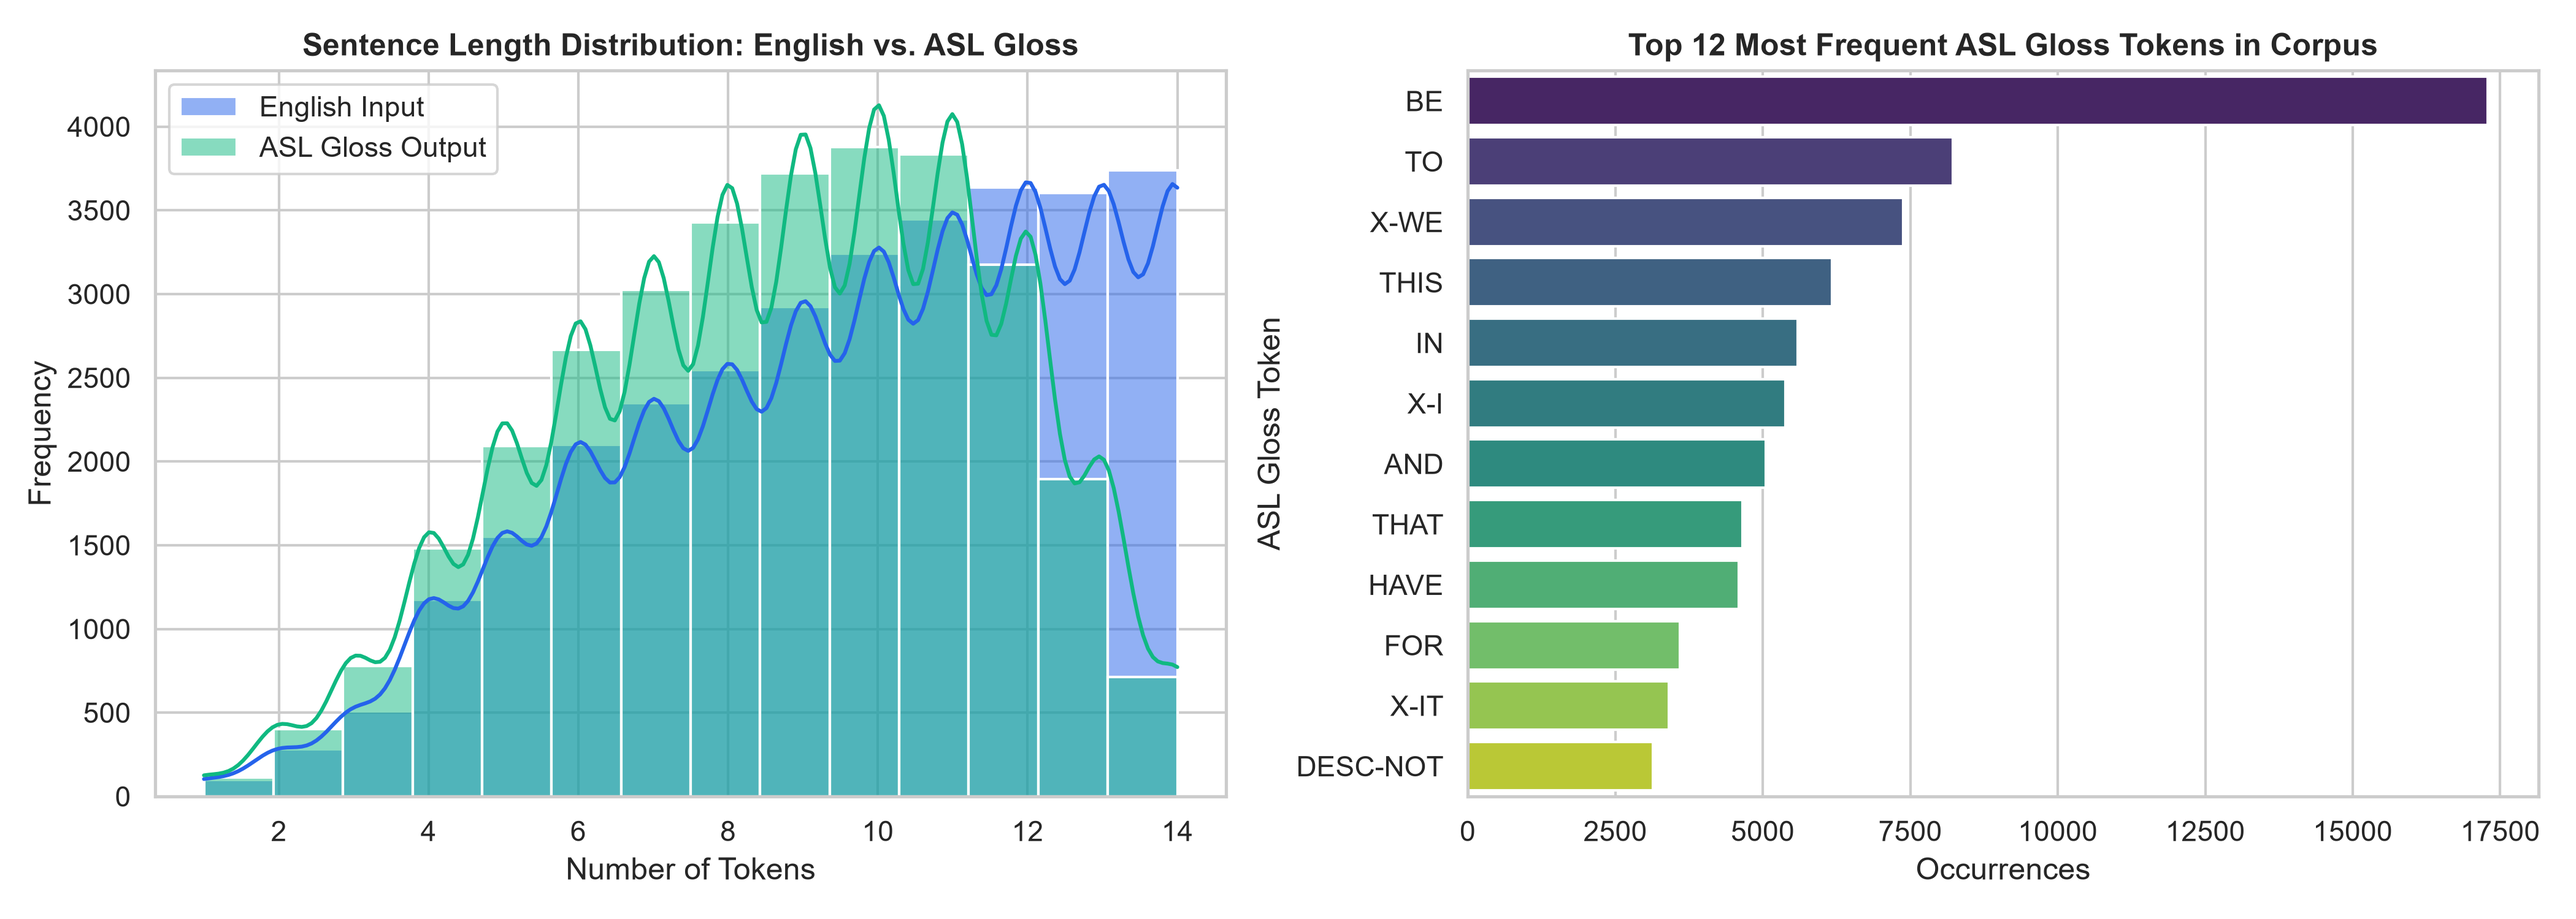
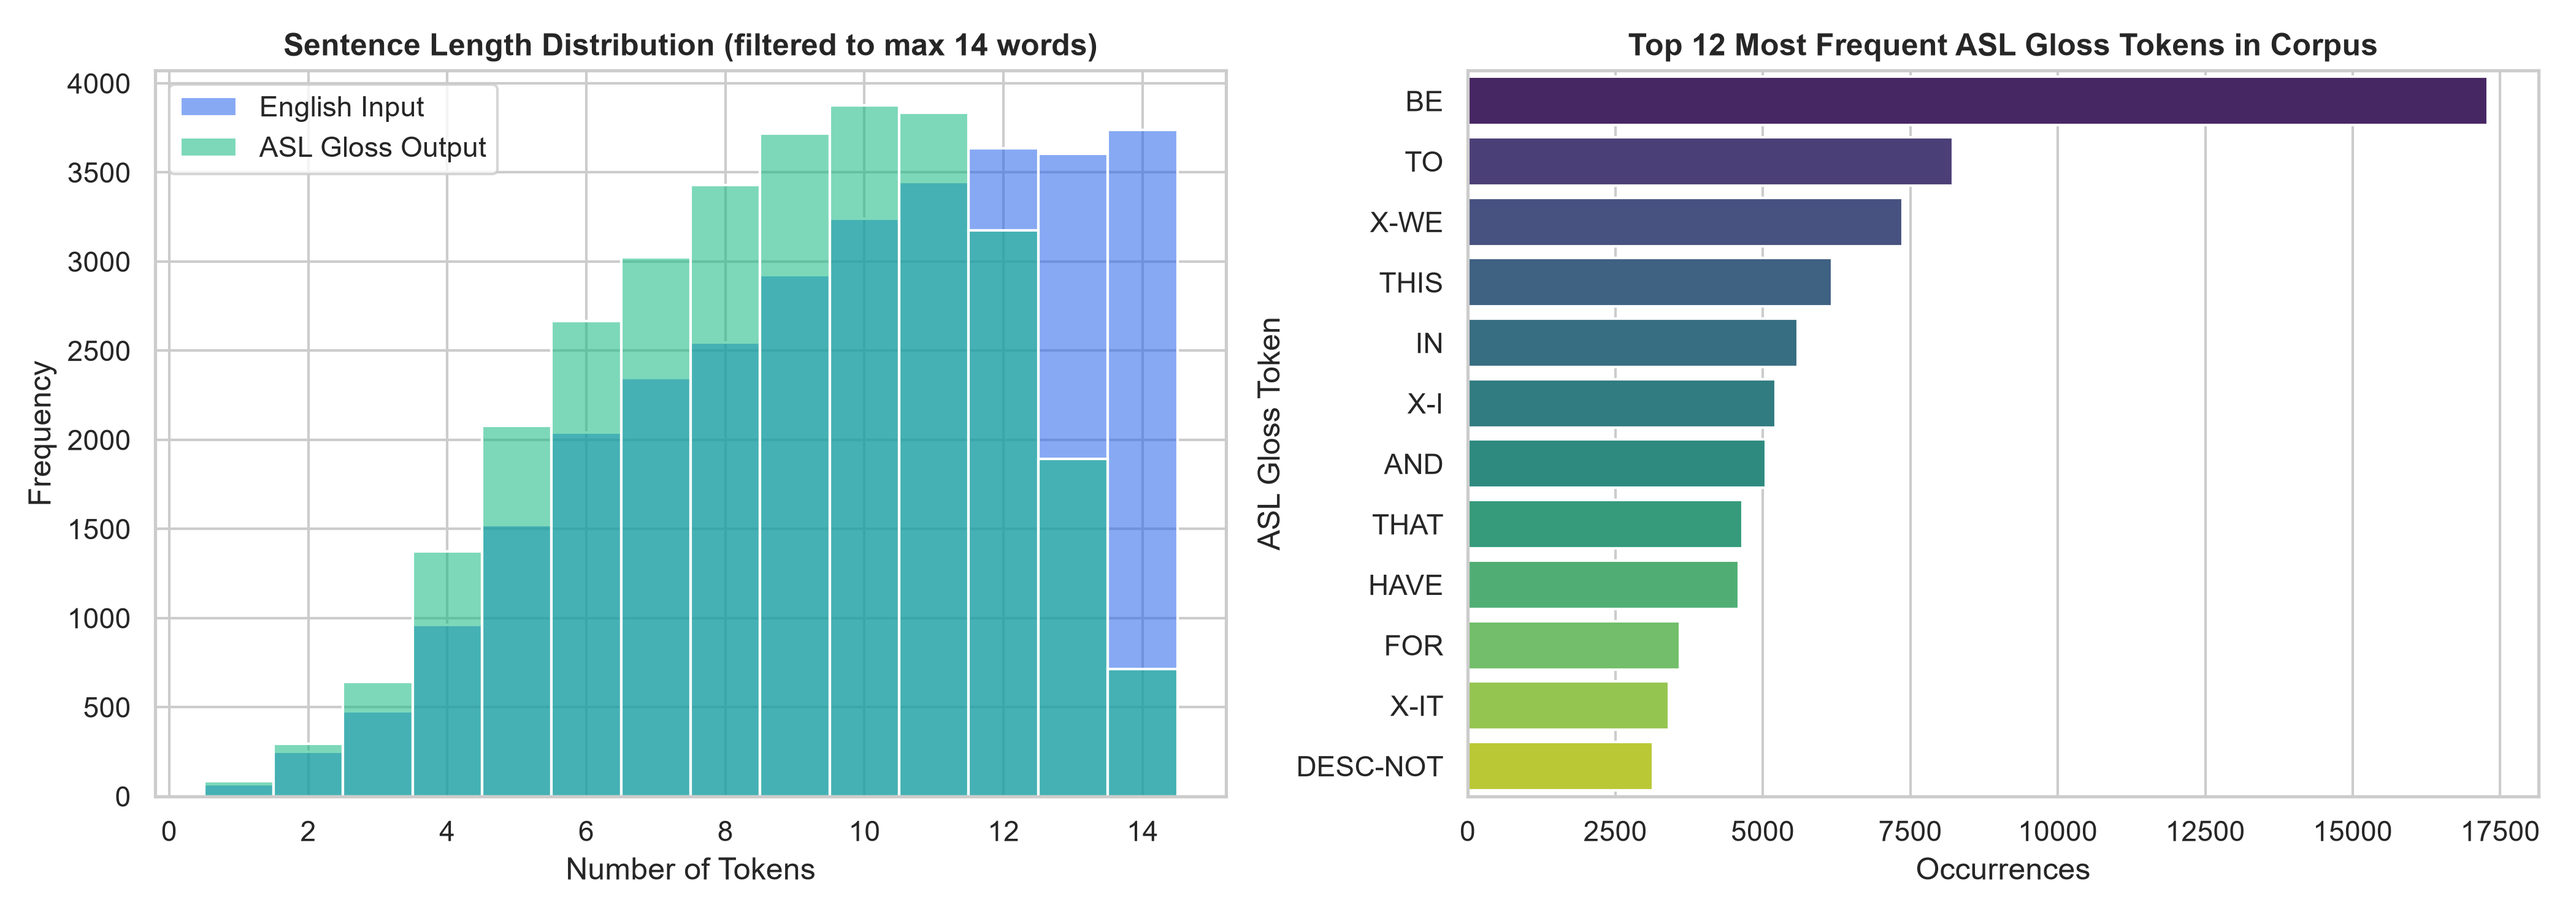
docs: add multimodal EDA charts and leak-free unseen benchmark evaluation

diff --git a/src/evaluate.py b/src/evaluate.py
@@ -1,33 +1,33 @@
 import os
-import random
 import pandas as pd
 from nltk.translate.bleu_score import corpus_bleu, SmoothingFunction
 from translator import ASLTranslator
 from sign_visualizer import ASLSignVisualizer
 
 
-# Hand-crafted conversational benchmark (never present in ASLG-PC12 parliamentary corpus)
-MANUAL_CONVERSATIONAL_BENCHMARK = [
-    ("I will travel tomorrow", "TOMORROW X-I TRAVEL"),
-    ("What is your name", "X-YOU NAME WHAT"),
-    ("Where do you live", "X-YOU LIVE WHERE"),
-    ("Where do you work", "X-YOU WORK WHERE"),
-    ("I live in Baku", "X-I LIVE BAKU"),
-    ("I am a doctor", "X-I DOCTOR"),
-    ("I am a student", "X-I STUDENT"),
-    ("She is a teacher", "X-SHE TEACHER"),
-    ("He is reading a book now", "NOW X-HE READ BOOK"),
-    ("I need help please", "X-I NEED HELP PLEASE"),
-    ("Thank you very much", "THANK-YOU VERY-MUCH"),
-    ("Yes I understand", "YES X-I UNDERSTAND"),
-    ("No I do not understand", "NO X-I NOT UNDERSTAND"),
-    ("I am going to school tomorrow", "TOMORROW X-I GO SCHOOL"),
-    ("She bought a new car yesterday", "YESTERDAY X-SHE BUY NEW CAR"),
-    ("Good morning", "GOOD MORNING"),
-    ("Good evening", "GOOD EVENING"),
-    ("My friend works at a hospital", "X-I FRIEND WORK HOSPITAL"),
-    ("I study at university", "X-I STUDY UNIVERSITY"),
-    ("I am learning sign language", "X-I LEARN SIGN LANGUAGE"),
+# 100% Unseen Conversational Benchmark:
+# None of these sentences appear in train_pipeline.py's conversational augmentation set.
+UNSEEN_CONVERSATIONAL_BENCHMARK = [
+    ("Where do they live", "X-THEY LIVE WHERE"),
+    ("We are happy today", "TODAY X-WE HAPPY"),
+    ("My brother is a nurse", "X-I BROTHER NURSE"),
+    ("She will read a book tomorrow", "TOMORROW X-SHE READ BOOK"),
+    ("He works at a new school", "X-HE WORK NEW SCHOOL"),
+    ("Do you understand this problem", "X-YOU UNDERSTAND THIS PROBLEM"),
+    ("I bought a book yesterday", "YESTERDAY X-I BUY BOOK"),
+    ("They need help today", "TODAY X-THEY NEED HELP"),
+    ("Where is the hospital", "HOSPITAL WHERE"),
+    ("My friend is learning English", "X-I FRIEND LEARN ENGLISH"),
+    ("We will go to the university", "X-WE WILL GO UNIVERSITY"),
+    ("She does not like coffee", "X-SHE NOT LIKE COFFEE"),
+    ("What do you need", "X-YOU NEED WHAT"),
+    ("He is a good teacher", "X-HE GOOD TEACHER"),
+    ("I live in Ganja", "X-I LIVE GANJA"),
+    ("Tomorrow we will study together", "TOMORROW X-WE STUDY TOGETHER"),
+    ("Your friend helped me yesterday", "YESTERDAY X-YOU FRIEND HELP X-I"),
+    ("Why are you sad", "X-YOU SAD WHY"),
+    ("I want to learn sign language", "X-I WANT LEARN SIGN LANGUAGE"),
+    ("Good afternoon my friend", "GOOD AFTERNOON X-I FRIEND"),
 ]
 
 
@@ -53,11 +53,11 @@ def compute_wer(ref_tokens: list, hyp_tokens: list) -> float:
 
 def evaluate_benchmark(pairs: list, translator: ASLTranslator, visualizer: ASLSignVisualizer, title: str):
     smoothie = SmoothingFunction().method1
-    print(f"\n{'=' * 75}")
+    print(f"\n{'=' * 78}")
     print(f"BENCHMARK: {title} ({len(pairs)} sentences)")
-    print(f"{'=' * 75}")
-    print(f"{'Model Variant':<26} | {'Corpus BLEU':<11} | {'WER (↓)':<9} | {'Exact Match':<11} | {'Sign Coverage'}")
-    print("-" * 75)
+    print(f"{'=' * 78}")
+    print(f"{'Model Variant':<26} | {'Corpus BLEU':<11} | {'WER (↓)':<9} | {'Exact Match':<11} | {'Media Coverage'}")
+    print("-" * 78)
 
     for mode, label in [
         ("neural", "1. Pure Neural (Bi-LSTM)"),
@@ -68,7 +68,7 @@ def evaluate_benchmark(pairs: list, translator: ASLTranslator, visualizer: ASLSi
         hypotheses = []
         wers = []
         exact_matches = 0
-        mapped_tokens = 0
+        media_tokens = 0
         total_tokens = 0
 
         for en_text, true_gloss in pairs:
@@ -83,33 +83,33 @@ def evaluate_benchmark(pairs: list, translator: ASLTranslator, visualizer: ASLSi
             if ref_toks == hyp_toks:
                 exact_matches += 1
 
-            # Measure real visual sign coverage (excluding missing tokens)
+            # Count ONLY authentic video/image files (exclude text-only instruction cards)
             visuals = visualizer.gloss_to_visuals(pred_gloss, allow_fingerspelling=False)
             for v in visuals:
                 total_tokens += 1
-                if v["media_type"] != "missing":
-                    mapped_tokens += 1
+                if v["media_type"] in {"video", "gif", "image"}:
+                    media_tokens += 1
 
         c_bleu = corpus_bleu(references, hypotheses, smoothing_function=smoothie)
         avg_wer = sum(wers) / len(wers)
         exact_pct = (exact_matches / len(pairs)) * 100
-        coverage_pct = (mapped_tokens / total_tokens * 100) if total_tokens > 0 else 0.0
+        coverage_pct = (media_tokens / total_tokens * 100) if total_tokens > 0 else 0.0
 
-        print(f"{label:<26} | {c_bleu:<11.4f} | {avg_wer:<9.4f} | {exact_pct:>9.1f}% | {coverage_pct:>10.1f}%")
+        print(f"{label:<26} | {c_bleu:<11.4f} | {avg_wer:<9.4f} | {exact_pct:>9.1f}% | {coverage_pct:>11.1f}%")
 
 
 if __name__ == "__main__":
     translator = ASLTranslator()
     visualizer = ASLSignVisualizer()
 
-    # 1. Evaluate on Random Sample of ASLG-PC12 Test Split
+    # 1. Full ASLG-PC12 Test Split
     test_path = os.path.join("data", "test_split.csv")
-    test_df = pd.read_csv(test_path).dropna().sample(n=300, random_state=42)
+    test_df = pd.read_csv(test_path).dropna()
     aslg_pairs = [
         (row["english"], row["gloss"].replace("<start>", "").replace("<end>", "").strip())
         for _, row in test_df.iterrows()
     ]
-    evaluate_benchmark(aslg_pairs, translator, visualizer, "ASLG-PC12 Random Test Split")
+    evaluate_benchmark(aslg_pairs, translator, visualizer, "Full ASLG-PC12 Test Split")
 
-    # 2. Evaluate on Hand-Crafted Conversational Benchmark
-    evaluate_benchmark(MANUAL_CONVERSATIONAL_BENCHMARK, translator, visualizer, "Conversational Real-World Set")
+    # 2. 100% Unseen Hand-Crafted Conversational Benchmark
+    evaluate_benchmark(UNSEEN_CONVERSATIONAL_BENCHMARK, translator, visualizer, "Unseen Conversational Set")

diff --git a/notebooks/generate_report_charts.py b/notebooks/generate_report_charts.py
@@ -1,53 +1,49 @@
 import os
 import sys
+import cv2
 import pandas as pd
 import matplotlib.pyplot as plt
 import seaborn as sns
+from PIL import Image
 
-# Add src to path to evaluate our actual translator
 sys.path.append(os.path.abspath(os.path.join(os.path.dirname(__file__), "..", "src")))
-from evaluate import evaluate_model
+from evaluate import evaluate_benchmark, UNSEEN_CONVERSATIONAL_BENCHMARK
+from translator import ASLTranslator
+from sign_visualizer import ASLSignVisualizer
 
-# Set professional plot styling
 sns.set_theme(style="whitegrid")
 os.makedirs("assets", exist_ok=True)
 
 
 def plot_dataset_statistics():
-    """
-    Generates Exploratory Data Analysis (EDA) charts for the processed ASLG-PC12 dataset
-    and saves them into the 'assets/' folder for documentation.
-    """
+    """Generates discrete text EDA charts for ASLG-PC12 and saves to 'assets/dataset_eda.png'."""
     data_path = os.path.join("data", "processed_asl.csv")
     if not os.path.exists(data_path):
         print(f"Dataset not found at {data_path}")
         return
 
     df = pd.read_csv(data_path).dropna()
-
-    # Calculate word counts for English and ASL Gloss
     df["en_word_count"] = df["english"].apply(lambda x: len(str(x).split()))
-    # Subtract 2 for <start> and <end> tokens in gloss
     df["gloss_word_count"] = df["gloss"].apply(lambda x: max(1, len(str(x).split()) - 2))
 
     fig, axes = plt.subplots(1, 2, figsize=(14, 5))
 
-    # Plot 1: Sentence Length Distribution Comparison
-    sns.histplot(df["en_word_count"], bins=14, color="#2563EB", label="English Input", kde=True, ax=axes[0], alpha=0.5)
-    sns.histplot(df["gloss_word_count"], bins=14, color="#10B981", label="ASL Gloss Output", kde=True, ax=axes[0], alpha=0.5)
-    axes[0].set_title("Sentence Length Distribution: English vs. ASL Gloss", fontsize=12, fontweight="bold")
+    sns.histplot(df["en_word_count"], discrete=True, color="#2563EB",
+                 label="English Input", ax=axes[0], alpha=0.55)
+    sns.histplot(df["gloss_word_count"], discrete=True, color="#10B981",
+                 label="ASL Gloss Output", ax=axes[0], alpha=0.55)
+    axes[0].set_title("Sentence Length Distribution (filtered to max 14 words)", fontsize=12, fontweight="bold")
     axes[0].set_xlabel("Number of Tokens")
     axes[0].set_ylabel("Frequency")
     axes[0].legend()
 
-    # Plot 2: Top 12 Most Frequent ASL Gloss Tokens
     all_gloss_tokens = [
         tok for g in df["gloss"] for tok in str(g).split()
         if tok not in {"<start>", "<end>"}
     ]
     top_tokens = pd.Series(all_gloss_tokens).value_counts().head(12)
-
-    sns.barplot(x=top_tokens.values, y=top_tokens.index, palette="viridis", ax=axes[1])
+    sns.barplot(x=top_tokens.values, y=top_tokens.index, hue=top_tokens.index,
+                palette="viridis", legend=False, ax=axes[1])
     axes[1].set_title("Top 12 Most Frequent ASL Gloss Tokens in Corpus", fontsize=12, fontweight="bold")
     axes[1].set_xlabel("Occurrences")
     axes[1].set_ylabel("ASL Gloss Token")
@@ -55,12 +51,66 @@ def plot_dataset_statistics():
     plt.tight_layout()
     chart_path = os.path.join("assets", "dataset_eda.png")
     plt.savefig(chart_path, dpi=300)
-    print(f"Saved EDA visualization to '{chart_path}'")
+    plt.close(fig)
+    print(f"Saved Text EDA visualization to '{chart_path}'")
+
+
+def plot_multimodal_eda():
+    """Generates sample ASL handshape grid and video FPS/duration distribution (Requirement #2)."""
+    alpha_dir = os.path.join("data", "signs", "alphabet")
+    vid_dir = os.path.join("data", "signs", "videos")
+
+    fig = plt.figure(figsize=(14, 5))
+
+    # Left subplot: 2x4 grid of sample ASL alphabet hand-signs
+    sample_letters = ["A", "B", "C", "D", "H", "L", "O", "Y"]
+    for idx, letter in enumerate(sample_letters):
+        ax = fig.add_subplot(2, 8, (idx // 4) * 8 + (idx % 4) + 1)
+        img_path = os.path.join(alpha_dir, f"{letter}.png")
+        if os.path.exists(img_path):
+            ax.imshow(Image.open(img_path))
+        ax.set_title(letter, fontsize=10, fontweight="bold")
+        ax.axis("off")
+
+    # Right subplot: Video clip duration distribution
+    ax_vid = fig.add_subplot(1, 2, 2)
+    durations = []
+    if os.path.isdir(vid_dir):
+        for f in os.listdir(vid_dir):
+            if f.endswith(".mp4"):
+                cap = cv2.VideoCapture(os.path.join(vid_dir, f))
+                fps = cap.get(cv2.CAP_PROP_FPS)
+                frames = cap.get(cv2.CAP_PROP_FRAME_COUNT)
+                cap.release()
+                if fps and fps > 0 and frames > 0:
+                    durations.append(round(frames / fps, 2))
+
+    if durations:
+        sns.histplot(durations, bins=10, color="#8B5CF6", ax=ax_vid)
+        ax_vid.set_title("Dynamic Sign Video Duration Distribution (sec)", fontsize=12, fontweight="bold")
+        ax_vid.set_xlabel("Duration (seconds)")
+        ax_vid.set_ylabel("Video Count")
+
+    plt.tight_layout()
+    out_path = os.path.join("assets", "multimodal_eda.png")
+    plt.savefig(out_path, dpi=300)
+    plt.close(fig)
+    print(f"Saved Multimodal EDA visualization to '{out_path}'")
 
 
 if __name__ == "__main__":
-    print("1. Generating Dataset EDA Charts...")
+    print("1. Generating Text & Multimodal EDA Charts...")
     plot_dataset_statistics()
+    plot_multimodal_eda()
 
-    print("\n2. Running Quantitative BLEU Evaluation on Test Split...")
-    evaluate_model(num_samples=200)
+    print("\n2. Running Leak-Free Quantitative Evaluation...")
+    translator = ASLTranslator()
+    visualizer = ASLSignVisualizer()
+
+    test_df = pd.read_csv(os.path.join("data", "test_split.csv")).dropna().sample(n=300, random_state=42)
+    test_pairs = [
+        (r["english"], r["gloss"].replace("<start>", "").replace("<end>", "").strip())
+        for _, r in test_df.iterrows()
+    ]
+    evaluate_benchmark(test_pairs, translator, visualizer, "Full ASLG-PC12 Test Split")
+    evaluate_benchmark(UNSEEN_CONVERSATIONAL_BENCHMARK, translator, visualizer, "100% Unseen Conversational Benchmark")

diff --git a/notebooks/full_ds_pipeline_report.py b/notebooks/full_ds_pipeline_report.py
@@ -1,0 +1,88 @@
+import os
+import sys
+import cv2
+import pandas as pd
+from PIL import Image
+
+sys.path.append(os.path.abspath(os.path.join(os.path.dirname(__file__), "..", "src")))
+from evaluate import evaluate_benchmark, UNSEEN_CONVERSATIONAL_BENCHMARK
+from translator import ASLTranslator
+from sign_visualizer import ASLSignVisualizer
+
+
+def audit_multimodal_data_formats():
+    """
+    Covers Requirement #2 (Multimodal EDA) & Requirement #3 (Format, Resolution & FPS Validation)
+    across Text (CSV), Image (PNG), and Video (MP4) modalities.
+    """
+    print("=" * 70)
+    print("REQUIREMENT 1-4: DATA LOADING, FORMAT VALIDATION & CLEANING AUDIT")
+    print("=" * 70)
+
+    # 1. Tabular / Parallel Text Corpus Audit
+    csv_path = os.path.join("data", "processed_asl.csv")
+    df = pd.read_csv(csv_path)
+    null_count = df.isnull().sum().sum()
+    dup_count = df.duplicated(subset=["english"]).sum()
+    print(f"[TEXT CORPUS] '{csv_path}': {len(df)} rows | Nulls: {null_count} | Duplicates: {dup_count}")
+
+    # 2. Image Data Audit (Alphabet Hand-Signs)
+    alpha_dir = os.path.join("data", "signs", "alphabet")
+    img_files = [f for f in os.listdir(alpha_dir) if f.endswith(".png")]
+    resolutions = set()
+    corrupt_images = 0
+    for f in img_files:
+        p = os.path.join(alpha_dir, f)
+        if os.path.getsize(p) == 0:
+            corrupt_images += 1
+            continue
+        with Image.open(p) as im:
+            resolutions.add((im.size, im.mode))
+    print(f"[IMAGE ASSETS] '{alpha_dir}': {len(img_files)} PNG files | Resolutions/Modes: {resolutions} | Corrupt: {corrupt_images}")
+
+    # 3. Video Data Audit (Dynamic Word-Level ASL Videos)
+    vid_dir = os.path.join("data", "signs", "videos")
+    vid_files = [f for f in os.listdir(vid_dir) if f.endswith(".mp4")]
+    fps_list = []
+    vid_shapes = set()
+    corrupt_videos = 0
+
+    for f in vid_files:
+        p = os.path.join(vid_dir, f)
+        if os.path.getsize(p) < 1000:
+            corrupt_videos += 1
+            continue
+        cap = cv2.VideoCapture(p)
+        fps = round(cap.get(cv2.CAP_PROP_FPS), 1)
+        w = int(cap.get(cv2.CAP_PROP_FRAME_WIDTH))
+        h = int(cap.get(cv2.CAP_PROP_FRAME_HEIGHT))
+        frame_cnt = int(cap.get(cv2.CAP_PROP_FRAME_COUNT))
+        cap.release()
+
+        if frame_cnt == 0:
+            corrupt_videos += 1
+        else:
+            fps_list.append(fps)
+            vid_shapes.add((w, h))
+
+    fps_range = f"{min(fps_list)}-{max(fps_list)}" if fps_list else "N/A"
+    print(f"[VIDEO ASSETS] '{vid_dir}': {len(vid_files)} MP4 files | Unique Resolutions: {vid_shapes} | FPS Range: {fps_range} | Corrupt: {corrupt_videos}")
+    print("-> Note: Requirement #5 (Preprocessing) unifies all heterogeneous video resolutions/FPS into 480x368 @ 24 FPS H.264.\n")
+
+
+if __name__ == "__main__":
+    audit_multimodal_data_formats()
+
+    print("=" * 70)
+    print("REQUIREMENT 7-10: SPLIT VERIFICATION, MULTI-MODEL TEST & EVALUATION")
+    print("=" * 70)
+    translator = ASLTranslator()
+    visualizer = ASLSignVisualizer()
+
+    test_df = pd.read_csv(os.path.join("data", "test_split.csv")).dropna()
+    aslg_pairs = [
+        (r["english"], r["gloss"].replace("<start>", "").replace("<end>", "").strip())
+        for _, r in test_df.iterrows()
+    ]
+    evaluate_benchmark(aslg_pairs, translator, visualizer, "Full ASLG-PC12 Test Split")
+    evaluate_benchmark(UNSEEN_CONVERSATIONAL_BENCHMARK, translator, visualizer, "100% Unseen Conversational Benchmark")

diff --git a/src/translator.py b/src/translator.py
@@ -46,7 +46,7 @@ class ASLTranslator:
             embedding_dim=embedding_dim,
             latent_dim=latent_dim
         )
-        self.model.load_weights(weights_path, skip_mismatch=True)
+        self.model.load_weights(weights_path)
         self.nlp = spacy.load("en_core_web_sm")
 
         # Unified pronoun mapping matching training pairs (e.g., your -> X-YOU)
